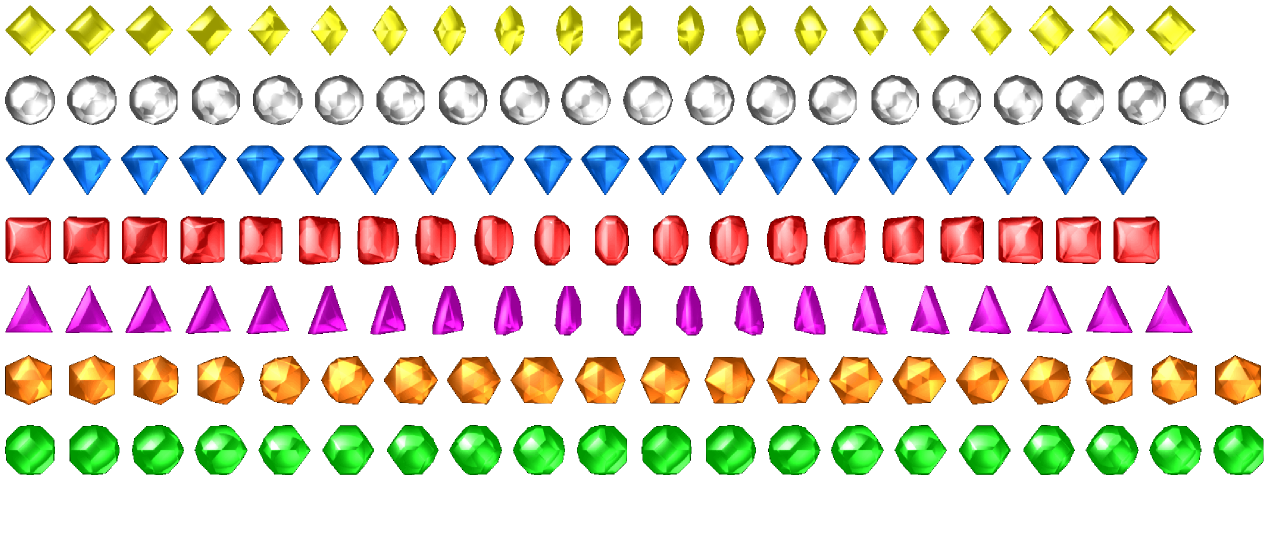
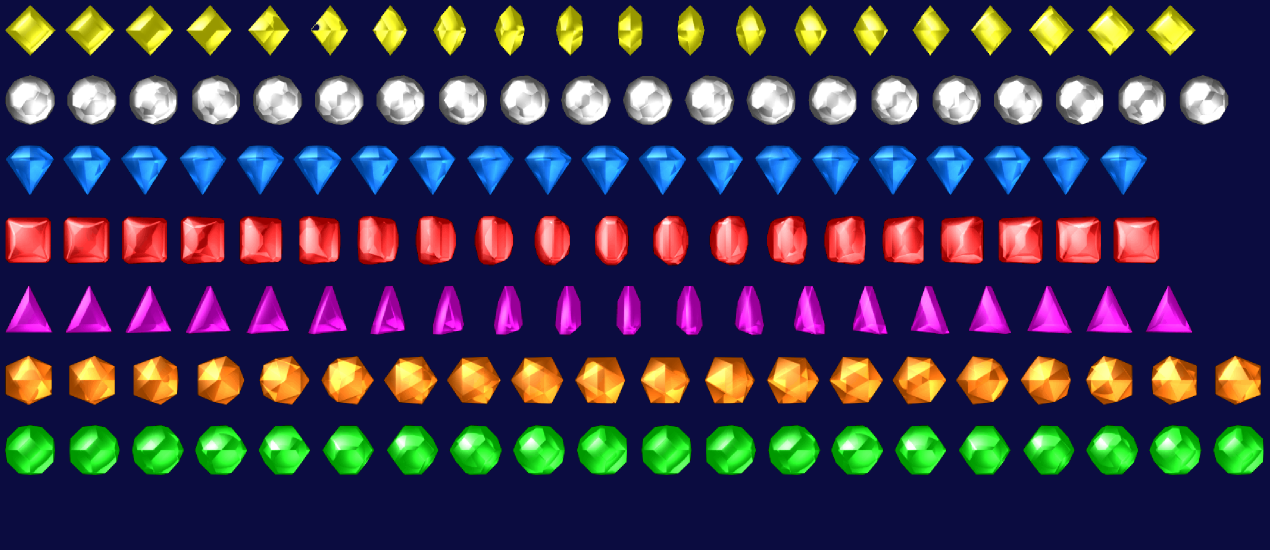
Essa versão já está com o layout aplicado, além de estar com a funcionalidade de dica já funcionando, também a parte das fazes

diff --git a/Tela.cpp b/Tela.cpp
@@ -5,7 +5,7 @@
 	Tela::Tela() {
         audio = true;
         set_clips(clipsGems);
-        set_clips(clipsGems_on);
+        set_clips(clipsGems_dica);
 		pontos = new Pilha();
 		level = 1;
 		changedLevel = true;
@@ -54,30 +54,29 @@
     int Tela::getElement(int x, int y) const { return matriz[x][y].elemento; }
     int Tela::getPontuacao() const { return user->getPontuacao(); }
     Ponto Tela::getDica() const { return dica; }
-    void Tela::getBonus() const {
+    void Tela::getBonus() {
     	switch(bonus) {
-    		case RED:
-	            cout << "O bonus é a peça Vermelha.\n";
+    		case YELLOW:
+    			applySurface( 720, 30, gemYellow, screen );
     			break;
     		case WHITE:
-	            cout << "O bonus é a peça Branca.\n";
-    			break;
-    		case GREEN:
-	            cout << "O bonus é a peça Verde.\n";
+    			applySurface( 720, 30, gemWhite, screen );
     			break;
     		case BLUE:
-	            cout << "O bonus é a peça Azul.\n";
+    			applySurface( 720, 30, gemBlue, screen );
+    			break;
+    		case RED:
+    			applySurface( 720, 30, gemRed, screen );
     			break;
     		case PURPLE:
-	            cout << "O bonus é a peça Roxa.\n";
-    			break;
-    		case YELLOW:
-	            cout << "O bonus é a peça Amarela.\n";
+    			applySurface( 720, 30, gemPurple, screen );
     			break;
     		case ORANGE:
-	            cout << "O bonus é a peça Laranja.\n";
+    			applySurface( 720, 30, gemOrange, screen );
     			break;
-    	}
+    		case GREEN:
+    			applySurface( 720, 30, gemGreen, screen );
+    	}    	
     }
     int Tela::getLevel() const { return level; }
 // metódo SET
@@ -358,28 +357,28 @@
         void Tela::contrastItem(int x, int y, int cod) {
             switch(cod) {
                 case 1:
-                    matriz[x][y].clip = &clipsGems_on[ YELLOW ];
+                    matriz[x][y].clip = &clipsGems_dica[ YELLOW ];
                     break;
                 case 2:
-                    matriz[x][y].clip = &clipsGems_on[ WHITE ];
+                    matriz[x][y].clip = &clipsGems_dica[ WHITE ];
                     break;
                 case 3:
-                    matriz[x][y].clip = &clipsGems_on[ BLUE ];
+                    matriz[x][y].clip = &clipsGems_dica[ BLUE ];
                     break;
                 case 4:
-                    matriz[x][y].clip = &clipsGems_on[ RED ];
+                    matriz[x][y].clip = &clipsGems_dica[ RED ];
                     break;
                 case 5:
-                    matriz[x][y].clip = &clipsGems_on[ PURPLE ];
+                    matriz[x][y].clip = &clipsGems_dica[ PURPLE ];
                     break;
                 case 6:
-                    matriz[x][y].clip = &clipsGems_on[ ORANGE ];
+                    matriz[x][y].clip = &clipsGems_dica[ ORANGE ];
                     break;
                 case 7:
-                    matriz[x][y].clip = &clipsGems_on[ GREEN ];
+                    matriz[x][y].clip = &clipsGems_dica[ GREEN ];
                     break;
                 case 9:
-                    matriz[x][y].clip = &clipsGems_on[ BLANK ];
+                    matriz[x][y].clip = &clipsGems_dica[ BLANK ];
             }
         }
 
@@ -418,10 +417,26 @@
             //Load the button sprite sheet
             gems = load_image( "Images/new_gems.png" );
 
-            gems_on = load_image( "Images/new_gems.png" );
+            gems_dica = load_image( "Images/dica.png" );
+
+            fundo = load_image( "Images/bg.png" );
+
+            // Bonus
+            gemYellow = load_image( "Images/yellow.png" );
+            gemWhite = load_image( "Images/white.png" );
+            gemBlue = load_image( "Images/blue.png" );
+            gemRed = load_image( "Images/red.png" );
+            gemPurple = load_image( "Images/purple.png" );
+            gemOrange = load_image( "Images/orange.png" );
+            gemGreen = load_image( "Images/green.png" );
+
+            fase1 = load_image( "Images/fase1.png" );
+            fase2 = load_image( "Images/fase2.png" );
+            fase3 = load_image( "Images/fase3.png" );
+            fase4 = load_image( "Images/fase4.png" );
 
             //If there was a problem in loading the button sprite sheet
-            if( (gems == NULL) || (gems_on == NULL))
+            if( (gems == NULL) || (gems_dica == NULL))
             {
                 return false;
             }
@@ -510,7 +525,7 @@
         }
 
         void Tela::handle_events() {
-		    Ponto p1 = {-1, -1}, p2 = {-1, -1};
+		    Ponto p1 = {-1, -1}, p2 = {-1, -1}, pDica = {-1, -1};
 		    bool quit = false;
 		    showGame();
             if(testMove() == false) quit = true;
@@ -526,8 +541,7 @@
 			    setrects(rect6, 64, 420);
 
 			    while( (quit == false) ) {
-		    	if(changeLevel())
-		    		cout << "Você acabou de mudar para a fase " << getLevel() << ".\n";
+		    	changeLevel();
 		        if( SDL_PollEvent( &event ) ) {
 
 		            Ponto tmp;
@@ -537,7 +551,15 @@
 	                    //Get the mouse offsets
 	                    tmp.x = event.button.x;
 	                    tmp.y = event.button.y;
-	                    while((tmp.x >= MAT_INITIAL_POINT_X && tmp.x <= MAT_INITIAL_POINT_X + 480) && (tmp.y >= MAT_INITIAL_POINT_Y && tmp.y <= MAT_INITIAL_POINT_Y + 480)) {
+	                    if((tmp.x >= 35 && tmp.x <= 140) && (tmp.y >= 380 && tmp.y <= 490)){
+	                    	pDica = getDica();
+	        				apply_surface(pDica.x, pDica.y, gems_dica, screen);
+        					SDL_UpdateRect(screen, matriz[pDica.x][pDica.y].celula.x, matriz[pDica.x][pDica.y].celula.y, matriz[pDica.x][pDica.y].celula.w, matriz[pDica.x][pDica.y].celula.h);
+	                    } else if((tmp.x >= MAT_INITIAL_POINT_X && tmp.x <= MAT_INITIAL_POINT_X + 480) && (tmp.y >= MAT_INITIAL_POINT_Y && tmp.y <= MAT_INITIAL_POINT_Y + 480)) {
+	                    	if(pDica.x >= 0) {
+		        				apply_surface(pDica.x, pDica.y, gems, screen);
+	        					SDL_UpdateRect(screen, matriz[pDica.x][pDica.y].celula.x, matriz[pDica.x][pDica.y].celula.y, matriz[pDica.x][pDica.y].celula.w, matriz[pDica.x][pDica.y].celula.h);
+	                    	}
 		                    tmp.x = (tmp.x - MAT_INITIAL_POINT_X) / 60;
 		                    tmp.y = (tmp.y - MAT_INITIAL_POINT_Y) / 60;
 			                if(p1.x < 0) {
@@ -551,7 +573,6 @@
 			                	} else {
 			                		//Ignora selecao
 			                		//Tira o destaque da joia que tinha sido selecionada
-			                		contrastItem(p1.x, p1.y, matriz[p1.x][p1.y].elemento);
 			        				apply_surface(p1.x, p1.y, gems, screen);
                 					SDL_UpdateRect(screen, matriz[p1.x][p1.y].celula.x, matriz[p1.x][p1.y].celula.y, matriz[p1.x][p1.y].celula.w, matriz[p1.x][p1.y].celula.h);
 			                		p1.x = tmp.y;
@@ -628,11 +649,6 @@
 	                p2.y = -1;
 		            if(testMove() == false) 
 		            	cout << "Sem mais movimentos possíveis!\n";
-		            else {
-		            	Ponto p = getDica();
-		            	// mostra uma dica temporário no código, será acionado ao apertar um botão
-		            		cout << "Dica: (" << p.x << "," << p.y << ")\n";
-		            }
 		        }
 			}
 		}
@@ -643,11 +659,32 @@
             offset.y = matriz[x][y].celula.y;
             SDL_BlitSurface( source, matriz[x][y].clip, destination, &offset ); //Blitagem
         }
-
+		void Tela::applySurface( int x, int y, SDL_Surface* source, SDL_Surface* destination ) {
+		   SDL_Rect offset;
+		   offset.x = x;
+		   offset.y = y; 
+		   SDL_BlitSurface( source, NULL, destination, &offset );
+		}
         // Função para começar o jogo
             void Tela::showGame() {
-                SDL_FillRect( screen, &screen->clip_rect, SDL_MapRGB( screen->format, 0xFF, 0xFF, 0xFF ) );
-                //Mostra a tela do jogo
+    		    applySurface( 0, 0, fundo, screen );
+                if( SDL_Flip( screen ) == -1 )
+                    return;
+                switch(level) {
+                	case 1:
+						applySurface( 57.938, 184.812, fase1, screen );
+						break;                	
+                	case 2:
+						applySurface( 57.938, 184.812, fase2, screen );
+						break;                	
+                	case 3:
+						applySurface( 57.938, 184.812, fase3, screen );
+						break;                	
+                	case 4:
+						applySurface( 57.938, 184.812, fase4, screen );
+						break;                	
+                }
+				if( SDL_Flip( screen ) == -1 ) return;
                 for(int i = 0; i < linhasMatriz; i++)
                     for(int j = 0; j < colunasMatriz; j++) {
                         apply_surface(i, j, gems, screen);
@@ -656,10 +693,12 @@
                         SDL_Delay(25);
                     }
 	            getBonus();
+                if( SDL_Flip( screen ) == -1 )
+                    return;
             }
 
             void Tela::showScreen() {
-                SDL_FillRect( screen, &screen->clip_rect, SDL_MapRGB( screen->format, 0xFF, 0xFF, 0xFF ) );
+                // SDL_FillRect( screen, &screen->clip_rect, SDL_MapRGB( screen->format, 0xFF, 0xFF, 0xFF ) );
                 //Mostra a tela do jogo
                 for(int i = 0; i < linhasMatriz; i++)
                     for(int j = 0; j < colunasMatriz; j++) {
@@ -763,3 +802,13 @@
                 std::cout << std::endl;
             }
         }
+		SDL_Surface * Tela::carregar_imagem( std::string filename ) {
+			SDL_Surface* imagemcarregada = NULL;
+			SDL_Surface* imagemotimizada = NULL;
+			imagemcarregada = SDL_LoadBMP( filename.c_str() );
+			if( imagemcarregada != NULL ) {
+				imagemotimizada = SDL_DisplayFormat( imagemcarregada );
+				SDL_FreeSurface( imagemcarregada );
+			}
+			return imagemotimizada;
+		}	   

diff --git a/Tela.h b/Tela.h
@@ -20,8 +20,8 @@
         const int colunasMatriz = 8;
 
         //Atributos da tela
-        const int SCREEN_WIDTH = 1000;
-        const int SCREEN_HEIGHT = 700;
+        const int SCREEN_WIDTH = 820;
+        const int SCREEN_HEIGHT = 630;
         const int SCREEN_BPP = 32;
 
         //Atributos de uma celula (tamanho de uma célula)
@@ -30,7 +30,7 @@
 
         //Atributos da matriz (posição da tela onde colocar a matriz)
         const int MAT_INITIAL_POINT_X = 300;
-        const int MAT_INITIAL_POINT_Y = 120;
+        const int MAT_INITIAL_POINT_Y = 100;
 
         //Constantes para mixagem do audio
         const int AUDIO_RATE = 44100;
@@ -65,12 +65,27 @@
 
             //Superficies
             SDL_Surface *gems;
-            SDL_Surface *gems_on;
+            SDL_Surface *gems_dica;
             SDL_Surface *screen;
+            SDL_Surface *fundo;
+            //bonus
+            SDL_Surface *gemYellow;
+            SDL_Surface *gemWhite;
+            SDL_Surface *gemBlue;
+            SDL_Surface *gemRed;
+            SDL_Surface *gemPurple;
+            SDL_Surface *gemOrange;
+            SDL_Surface *gemGreen;
+
+            // fases
+            SDL_Surface *fase1;
+            SDL_Surface *fase2;
+            SDL_Surface *fase3;
+            SDL_Surface *fase4;
 
             //Cortes da figura (teremos oito joias)
-            SDL_Rect clipsGems[9];
-            SDL_Rect clipsGems_on[9];
+            SDL_Rect clipsGems[8];
+            SDL_Rect clipsGems_dica[8];
 
 			/* Mix_Music actually holds the music information.  */
 			Mix_Music *music;
@@ -84,7 +99,7 @@
 					int getElement(int x, int y) const;
 					int getPontuacao() const;
 					Ponto getDica() const;
-					void getBonus() const;
+					void getBonus();
 					int getLevel() const;
 				// metódo SET
 					void setElement(int x, int y, int element);
@@ -125,7 +140,7 @@
                 void handle_events();
 
                 void apply_surface(int x, int y, SDL_Surface* source, SDL_Surface* destination);//, SDL_Rect* clip);
-
+				void applySurface( int x, int y, SDL_Surface* source, SDL_Surface* destination );
                 void showGame(); // Função para começar o jogo
 
                 void showScreen();
@@ -133,6 +148,7 @@
                 bool testMove(); // Algoritmos que buscará as possível jogadas
                 bool changeLevel(); //  para mudança das fases
                 void print();
+                SDL_Surface * carregar_imagem( std::string filename );
 		};
 
 #endif
